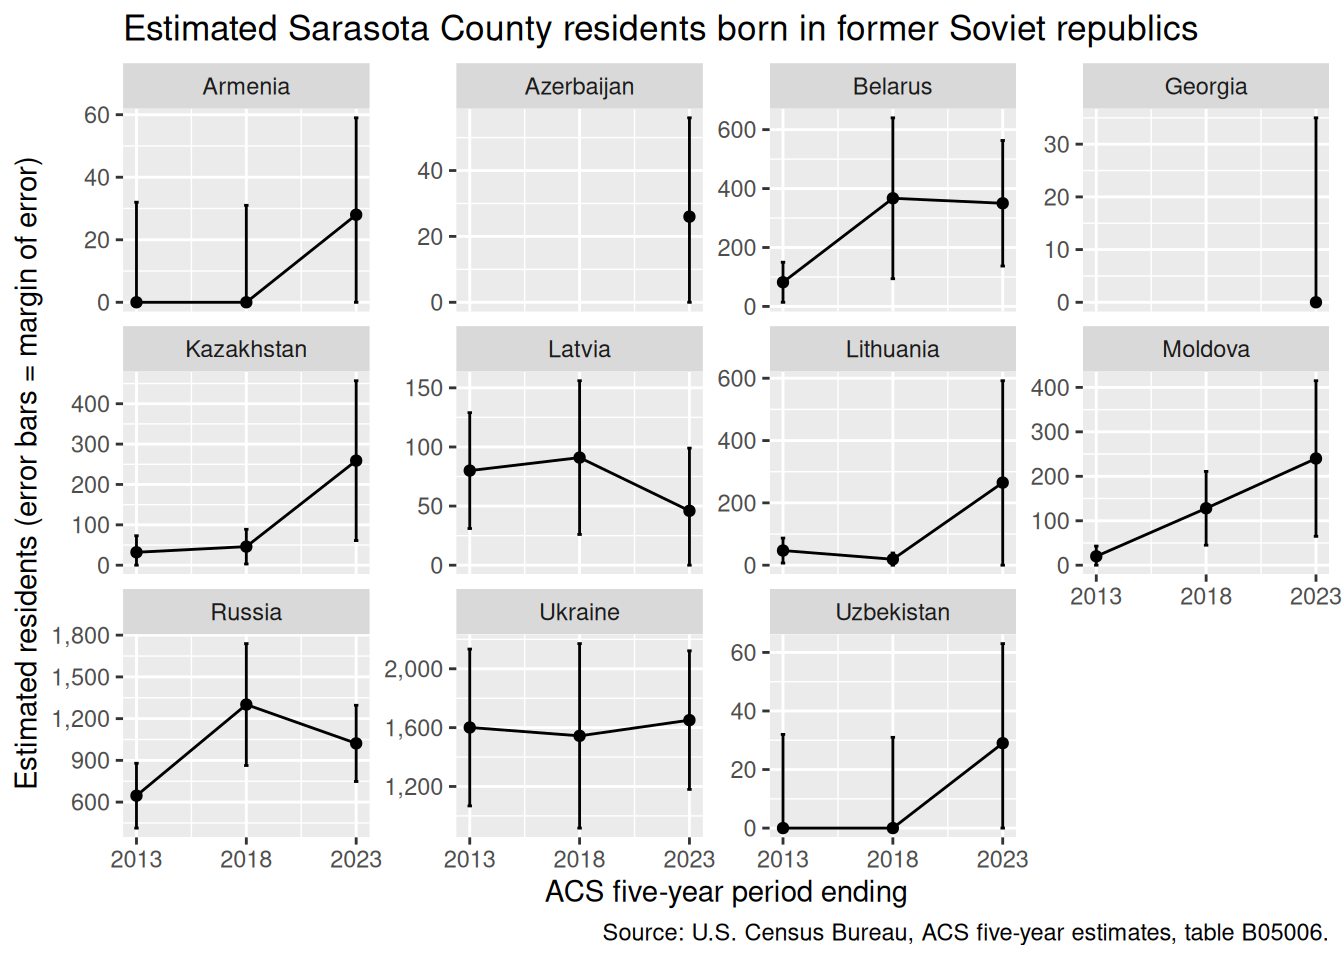
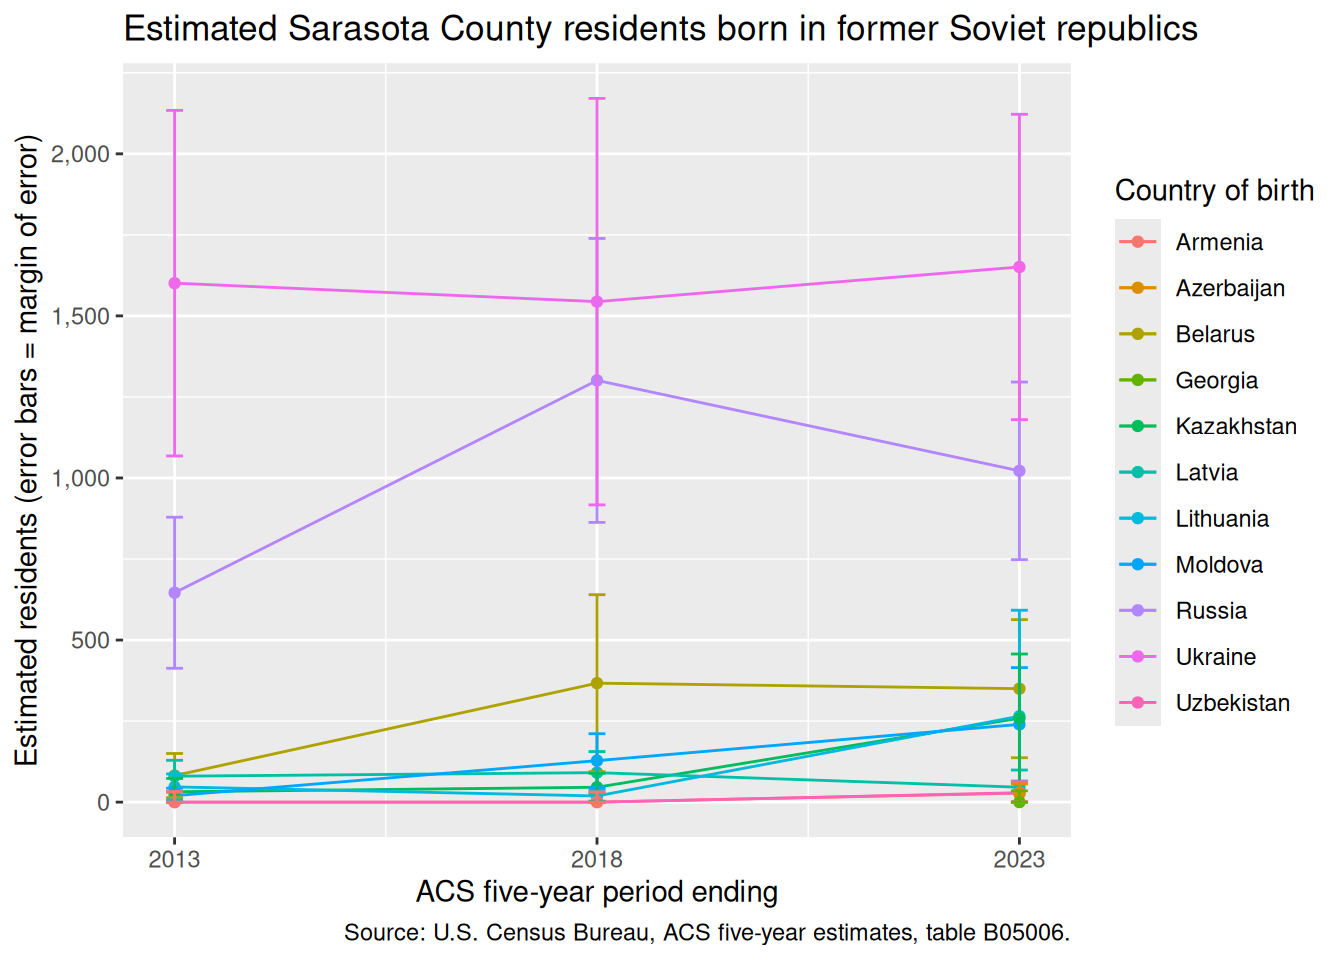
Built site for gh-pages

diff --git a/index.html b/index.html
@@ -26,41 +26,6 @@ ul.task-list li input[type="checkbox"] {
   margin: 0 0.8em 0.2em -1em; /* quarto-specific, see https://github.com/quarto-dev/quarto-cli/issues/4556 */ 
   vertical-align: middle;
 }
-/* CSS for syntax highlighting */
-html { -webkit-text-size-adjust: 100%; }
-pre > code.sourceCode { white-space: pre; position: relative; }
-pre > code.sourceCode > span { display: inline-block; line-height: 1.25; }
-pre > code.sourceCode > span:empty { height: 1.2em; }
-.sourceCode { overflow: visible; }
-code.sourceCode > span { color: inherit; text-decoration: inherit; }
-div.sourceCode { margin: 1em 0; }
-pre.sourceCode { margin: 0; }
-@media screen {
-div.sourceCode { overflow: auto; }
-}
-@media print {
-pre > code.sourceCode { white-space: pre-wrap; }
-pre > code.sourceCode > span { text-indent: -5em; padding-left: 5em; }
-}
-pre.numberSource code
-  { counter-reset: source-line 0; }
-pre.numberSource code > span
-  { position: relative; left: -4em; counter-increment: source-line; }
-pre.numberSource code > span > a:first-child::before
-  { content: counter(source-line);
-    position: relative; left: -1em; text-align: right; vertical-align: baseline;
-    border: none; display: inline-block;
-    -webkit-touch-callout: none; -webkit-user-select: none;
-    -khtml-user-select: none; -moz-user-select: none;
-    -ms-user-select: none; user-select: none;
-    padding: 0 4px; width: 4em;
-  }
-pre.numberSource { margin-left: 3em;  padding-left: 4px; }
-div.sourceCode
-  {   }
-@media screen {
-pre > code.sourceCode > span > a:first-child::before { text-decoration: underline; }
-}
 </style>
 
 
@@ -183,59 +148,8 @@ pre > code.sourceCode > span > a:first-child::before { text-decoration: underlin
 <section id="residents-born-in-post-soviet-countries" class="level2">
 <h2 class="anchored" data-anchor-id="residents-born-in-post-soviet-countries">Residents born in post-Soviet countries</h2>
 <p>The Census Bureau’s <a href="https://data.census.gov/table?q=B05006">B05006 table</a> reports the birthplace of the foreign-born population, not ethnicity or ancestry. The chart compares Sarasota County estimates from three non-overlapping American Community Survey (ACS) five-year periods. It includes countries with a separate B05006 category; some former Soviet republics are not listed separately. Error bars show each estimate’s margin of error (MOE), so small changes should be interpreted cautiously.</p>
+<p>To download updated estimates, run <code>Rscript download_birthplace_data.R</code> from the project directory. The chart below reads the saved CSV and does not download data during rendering.</p>
 <div class="cell">
-<div class="code-copy-outer-scaffold"><div class="sourceCode cell-code" id="cb1"><pre class="sourceCode r code-with-copy"><code class="sourceCode r"><span id="cb1-1"><a href="#cb1-1" aria-hidden="true" tabindex="-1"></a><span class="fu">library</span>(tidyverse)</span>
-<span id="cb1-2"><a href="#cb1-2" aria-hidden="true" tabindex="-1"></a><span class="fu">library</span>(tidycensus)</span>
-<span id="cb1-3"><a href="#cb1-3" aria-hidden="true" tabindex="-1"></a></span>
-<span id="cb1-4"><a href="#cb1-4" aria-hidden="true" tabindex="-1"></a>post_soviet_countries <span class="ot">&lt;-</span> <span class="fu">c</span>(</span>
-<span id="cb1-5"><a href="#cb1-5" aria-hidden="true" tabindex="-1"></a>  <span class="st">"Armenia"</span>, <span class="st">"Azerbaijan"</span>, <span class="st">"Belarus"</span>, <span class="st">"Georgia"</span>, <span class="st">"Kazakhstan"</span>,</span>
-<span id="cb1-6"><a href="#cb1-6" aria-hidden="true" tabindex="-1"></a>  <span class="st">"Latvia"</span>, <span class="st">"Lithuania"</span>, <span class="st">"Moldova"</span>, <span class="st">"Russia"</span>, <span class="st">"Ukraine"</span>, <span class="st">"Uzbekistan"</span></span>
-<span id="cb1-7"><a href="#cb1-7" aria-hidden="true" tabindex="-1"></a>)</span>
-<span id="cb1-8"><a href="#cb1-8" aria-hidden="true" tabindex="-1"></a></span>
-<span id="cb1-9"><a href="#cb1-9" aria-hidden="true" tabindex="-1"></a>years <span class="ot">&lt;-</span> <span class="fu">c</span>(<span class="dv">2013</span>, <span class="dv">2018</span>, <span class="dv">2023</span>)</span>
-<span id="cb1-10"><a href="#cb1-10" aria-hidden="true" tabindex="-1"></a></span>
-<span id="cb1-11"><a href="#cb1-11" aria-hidden="true" tabindex="-1"></a>birthplace_estimates <span class="ot">&lt;-</span> <span class="fu">map_dfr</span>(years, \(year) {</span>
-<span id="cb1-12"><a href="#cb1-12" aria-hidden="true" tabindex="-1"></a>  country_variables <span class="ot">&lt;-</span> <span class="fu">load_variables</span>(year, <span class="st">"acs5"</span>) <span class="sc">|&gt;</span></span>
-<span id="cb1-13"><a href="#cb1-13" aria-hidden="true" tabindex="-1"></a>    <span class="fu">filter</span>(</span>
-<span id="cb1-14"><a href="#cb1-14" aria-hidden="true" tabindex="-1"></a>      <span class="fu">str_detect</span>(name, <span class="st">"^B05006_[0-9]{3}$"</span>),</span>
-<span id="cb1-15"><a href="#cb1-15" aria-hidden="true" tabindex="-1"></a>      <span class="fu">str_detect</span>(</span>
-<span id="cb1-16"><a href="#cb1-16" aria-hidden="true" tabindex="-1"></a>        label,</span>
-<span id="cb1-17"><a href="#cb1-17" aria-hidden="true" tabindex="-1"></a>        <span class="fu">str_c</span>(<span class="st">"!!("</span>, <span class="fu">str_c</span>(post_soviet_countries, <span class="at">collapse =</span> <span class="st">"|"</span>), <span class="st">")$"</span>)</span>
-<span id="cb1-18"><a href="#cb1-18" aria-hidden="true" tabindex="-1"></a>      )</span>
-<span id="cb1-19"><a href="#cb1-19" aria-hidden="true" tabindex="-1"></a>    ) <span class="sc">|&gt;</span></span>
-<span id="cb1-20"><a href="#cb1-20" aria-hidden="true" tabindex="-1"></a>    <span class="fu">select</span>(name, label)</span>
-<span id="cb1-21"><a href="#cb1-21" aria-hidden="true" tabindex="-1"></a></span>
-<span id="cb1-22"><a href="#cb1-22" aria-hidden="true" tabindex="-1"></a>  <span class="fu">get_acs</span>(</span>
-<span id="cb1-23"><a href="#cb1-23" aria-hidden="true" tabindex="-1"></a>    <span class="at">geography =</span> <span class="st">"county"</span>,</span>
-<span id="cb1-24"><a href="#cb1-24" aria-hidden="true" tabindex="-1"></a>    <span class="at">state =</span> <span class="st">"FL"</span>,</span>
-<span id="cb1-25"><a href="#cb1-25" aria-hidden="true" tabindex="-1"></a>    <span class="at">county =</span> <span class="st">"Sarasota"</span>,</span>
-<span id="cb1-26"><a href="#cb1-26" aria-hidden="true" tabindex="-1"></a>    <span class="at">variables =</span> country_variables<span class="sc">$</span>name,</span>
-<span id="cb1-27"><a href="#cb1-27" aria-hidden="true" tabindex="-1"></a>    <span class="at">year =</span> year,</span>
-<span id="cb1-28"><a href="#cb1-28" aria-hidden="true" tabindex="-1"></a>    <span class="at">survey =</span> <span class="st">"acs5"</span></span>
-<span id="cb1-29"><a href="#cb1-29" aria-hidden="true" tabindex="-1"></a>  ) <span class="sc">|&gt;</span></span>
-<span id="cb1-30"><a href="#cb1-30" aria-hidden="true" tabindex="-1"></a>    <span class="fu">left_join</span>(country_variables, <span class="at">by =</span> <span class="fu">c</span>(<span class="st">"variable"</span> <span class="ot">=</span> <span class="st">"name"</span>)) <span class="sc">|&gt;</span></span>
-<span id="cb1-31"><a href="#cb1-31" aria-hidden="true" tabindex="-1"></a>    <span class="fu">mutate</span>(</span>
-<span id="cb1-32"><a href="#cb1-32" aria-hidden="true" tabindex="-1"></a>      <span class="at">country =</span> <span class="fu">str_extract</span>(label, <span class="st">"[^!]+$"</span>),</span>
-<span id="cb1-33"><a href="#cb1-33" aria-hidden="true" tabindex="-1"></a>      <span class="at">year =</span> year</span>
-<span id="cb1-34"><a href="#cb1-34" aria-hidden="true" tabindex="-1"></a>    )</span>
-<span id="cb1-35"><a href="#cb1-35" aria-hidden="true" tabindex="-1"></a>})</span>
-<span id="cb1-36"><a href="#cb1-36" aria-hidden="true" tabindex="-1"></a></span>
-<span id="cb1-37"><a href="#cb1-37" aria-hidden="true" tabindex="-1"></a><span class="fu">ggplot</span>(birthplace_estimates, <span class="fu">aes</span>(<span class="at">x =</span> year, <span class="at">y =</span> estimate)) <span class="sc">+</span></span>
-<span id="cb1-38"><a href="#cb1-38" aria-hidden="true" tabindex="-1"></a>  <span class="fu">geom_line</span>() <span class="sc">+</span></span>
-<span id="cb1-39"><a href="#cb1-39" aria-hidden="true" tabindex="-1"></a>  <span class="fu">geom_point</span>() <span class="sc">+</span></span>
-<span id="cb1-40"><a href="#cb1-40" aria-hidden="true" tabindex="-1"></a>  <span class="fu">geom_errorbar</span>(</span>
-<span id="cb1-41"><a href="#cb1-41" aria-hidden="true" tabindex="-1"></a>    <span class="fu">aes</span>(<span class="at">ymin =</span> <span class="fu">pmax</span>(<span class="dv">0</span>, estimate <span class="sc">-</span> moe), <span class="at">ymax =</span> estimate <span class="sc">+</span> moe),</span>
-<span id="cb1-42"><a href="#cb1-42" aria-hidden="true" tabindex="-1"></a>    <span class="at">width =</span> <span class="fl">0.2</span></span>
-<span id="cb1-43"><a href="#cb1-43" aria-hidden="true" tabindex="-1"></a>  ) <span class="sc">+</span></span>
-<span id="cb1-44"><a href="#cb1-44" aria-hidden="true" tabindex="-1"></a>  <span class="fu">facet_wrap</span>(<span class="fu">vars</span>(country), <span class="at">scales =</span> <span class="st">"free_y"</span>) <span class="sc">+</span></span>
-<span id="cb1-45"><a href="#cb1-45" aria-hidden="true" tabindex="-1"></a>  <span class="fu">scale_x_continuous</span>(<span class="at">breaks =</span> years) <span class="sc">+</span></span>
-<span id="cb1-46"><a href="#cb1-46" aria-hidden="true" tabindex="-1"></a>  <span class="fu">scale_y_continuous</span>(<span class="at">labels =</span> scales<span class="sc">::</span><span class="fu">label_comma</span>()) <span class="sc">+</span></span>
-<span id="cb1-47"><a href="#cb1-47" aria-hidden="true" tabindex="-1"></a>  <span class="fu">labs</span>(</span>
-<span id="cb1-48"><a href="#cb1-48" aria-hidden="true" tabindex="-1"></a>    <span class="at">title =</span> <span class="st">"Estimated Sarasota County residents born in former Soviet republics"</span>,</span>
-<span id="cb1-49"><a href="#cb1-49" aria-hidden="true" tabindex="-1"></a>    <span class="at">x =</span> <span class="st">"ACS five-year period ending"</span>,</span>
-<span id="cb1-50"><a href="#cb1-50" aria-hidden="true" tabindex="-1"></a>    <span class="at">y =</span> <span class="st">"Estimated residents (error bars = margin of error)"</span>,</span>
-<span id="cb1-51"><a href="#cb1-51" aria-hidden="true" tabindex="-1"></a>    <span class="at">caption =</span> <span class="st">"Source: U.S. Census Bureau, ACS five-year estimates, table B05006."</span></span>
-<span id="cb1-52"><a href="#cb1-52" aria-hidden="true" tabindex="-1"></a>  )</span></code></pre></div><button title="Copy to Clipboard" class="code-copy-button"><i class="bi"></i></button></div>
 <div class="cell-output-display">
 <div>
 <figure class="figure">
